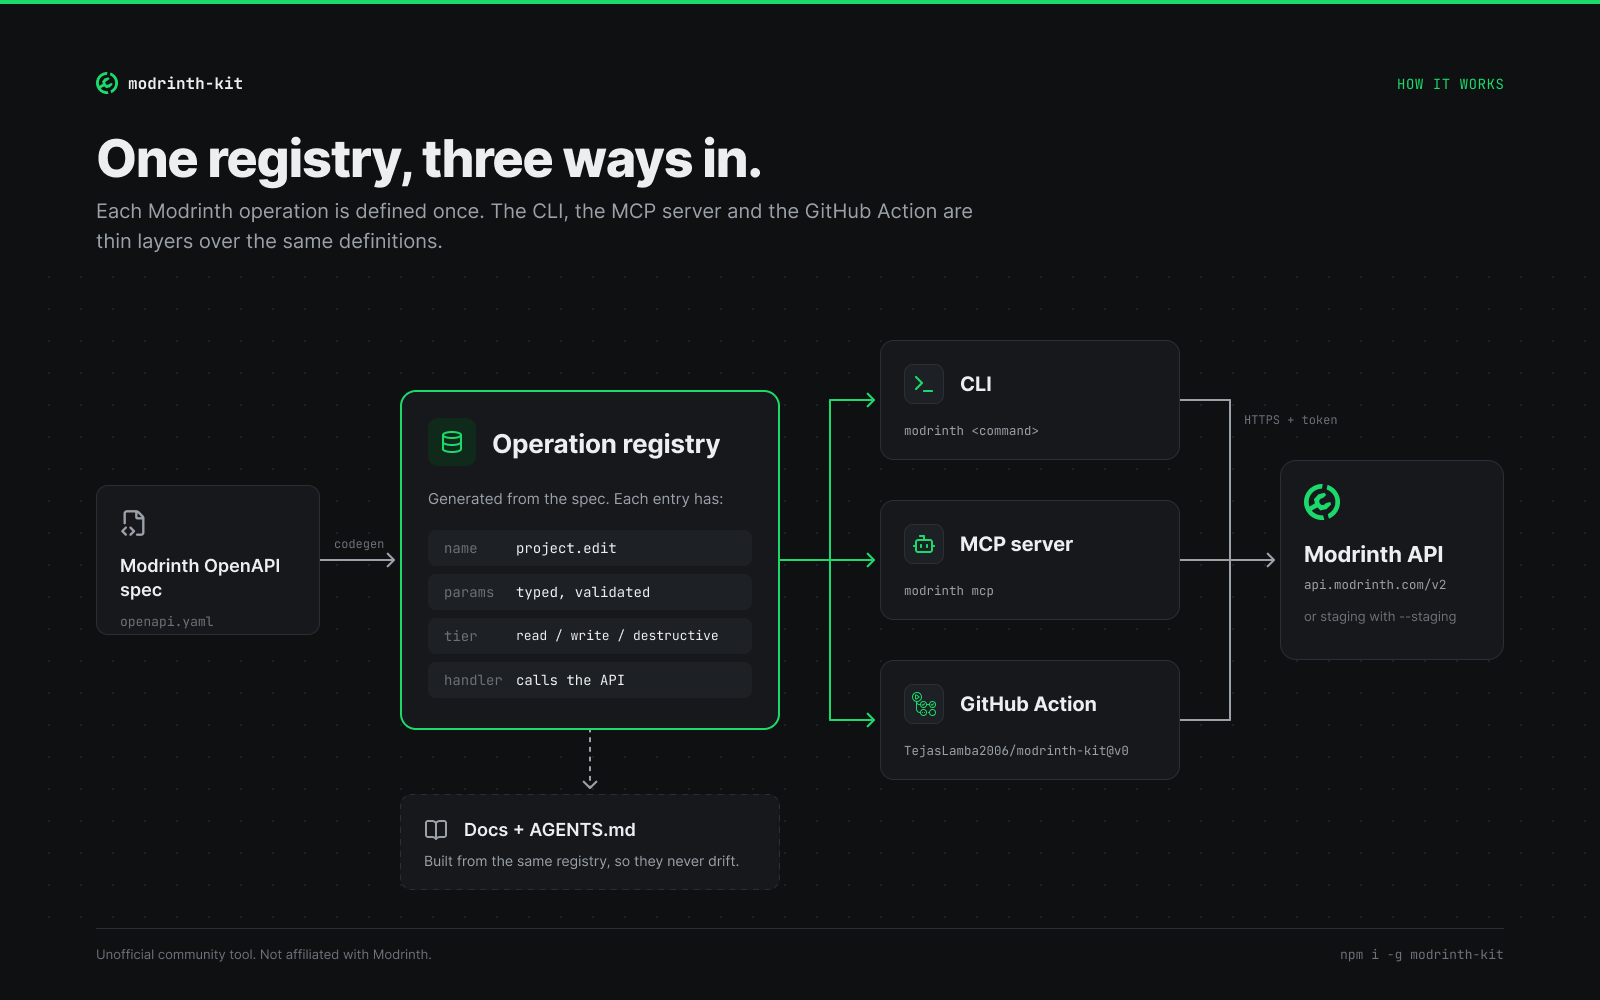
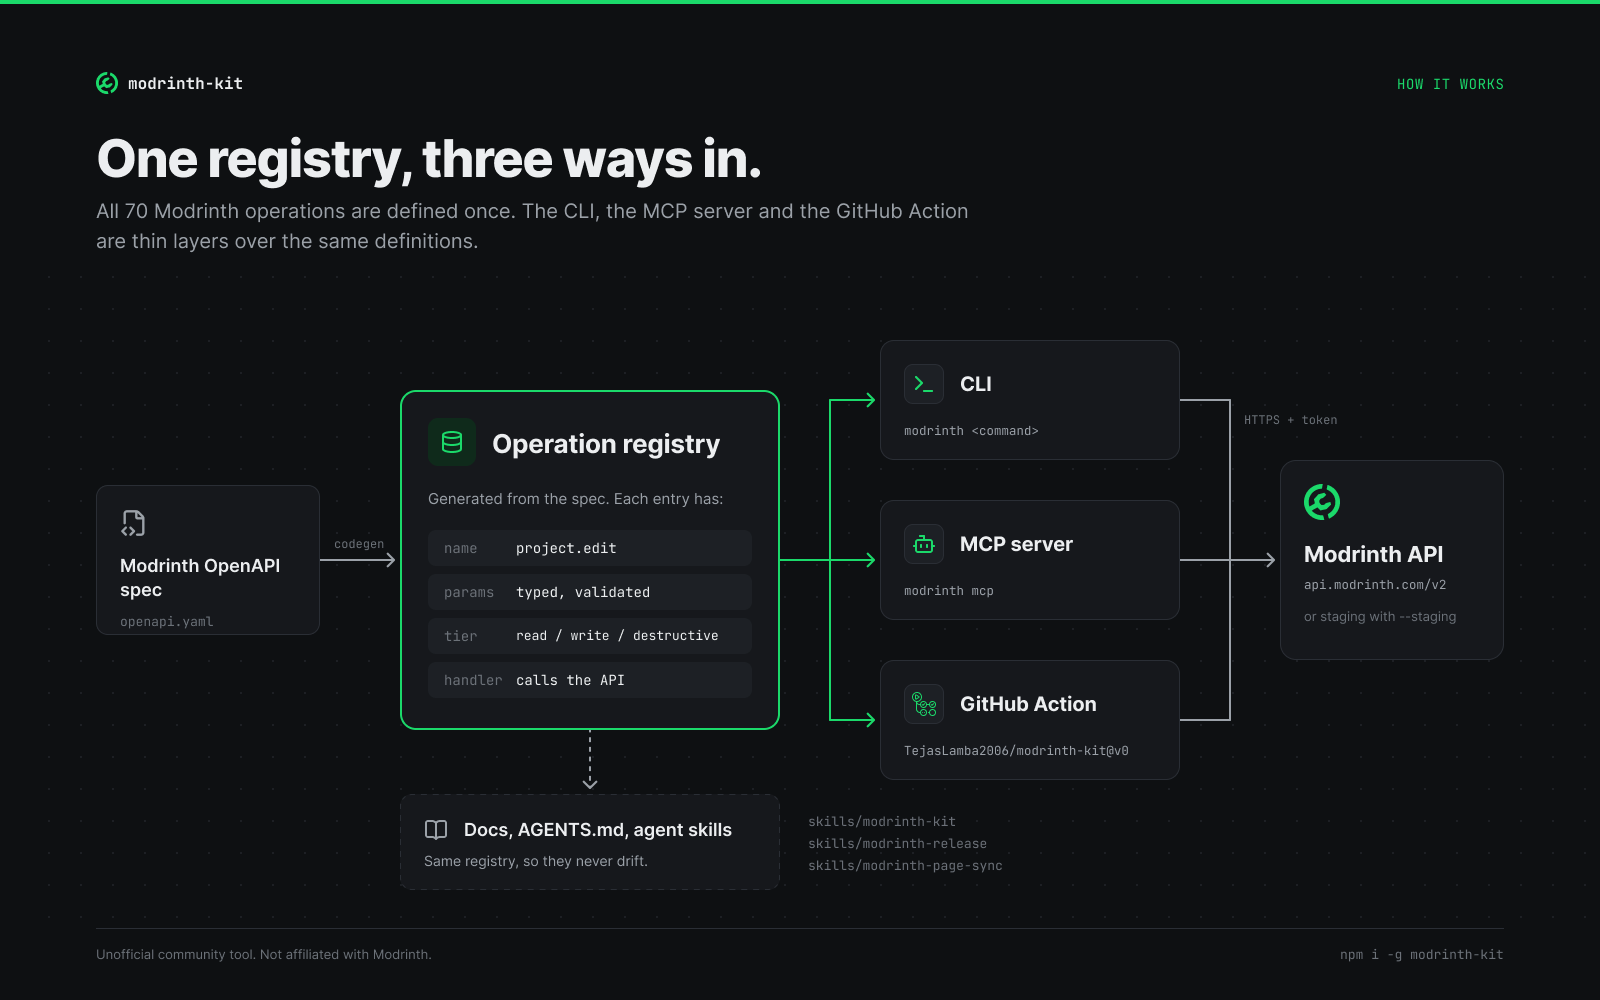
docs: v0.3 posters, agent skills image, updated Discord announcement

Changed region(s): [[0.0625, 0.186, 0.625, 0.248], [0.2812, 0.806, 0.4688, 0.868], [0.5, 0.806, 0.625, 0.868]]

diff --git a/docs/media/discord-announcement.md b/docs/media/discord-announcement.md
@@ -1,27 +1,29 @@
-Hey all, I made a thing for Modrinth project authors: **modrinth-kit**.
+Hey all, I made a thing for Modrinth project authors: **modrinth-kit** (v0.3.0).
 
-I kept doing the same clicks on the Modrinth site for every release and every page edit, and I couldn't find one tool that covered it. Minotaur only works in Gradle, the GitHub Actions only upload versions, and the CLIs I found were download-only or abandoned. So I wrote one.
+I kept doing the same clicks on the Modrinth site for every release and page edit, and couldn't find one tool that covered it. Minotaur is Gradle-only, the GitHub Actions only upload versions, and the CLIs I found were download-only or abandoned. So I wrote one.
 
-It lets you do what you'd normally do on the website (projects, versions, gallery, team, orgs, analytics, collections, replying to moderators), in three ways:
+It covers 70 operations, basically what you'd do on the website: projects, versions, gallery, team, orgs, analytics, collections, notifications, and replying to moderators. You can use it three ways:
 
-- **CLI**: `modrinth <command>`. Prints JSON, uses fixed exit codes, so it's easy to script.
+- **CLI**: `modrinth <command>`. JSON output and fixed exit codes, so it's easy to script.
 - **MCP server**: the same operations as tools for Claude Code, Claude Desktop or Cursor.
-- **CI**: keep a `modrinth.toml` in your repo. `modrinth sync` makes the project page match it (use `--dry-run` to see the diff first), and `modrinth publish 1.2.0` uploads your build with that version's CHANGELOG section. Running it twice is a no-op. There's a GitHub Action, and it runs on any CI through npx.
-- **Destructive stuff needs confirmation.** Deletes, ownership transfers and making a project public only print a preview until you pass `--yes`. You can also start the MCP server with `--read-only` so an agent can't change anything.
+- **CI**: keep a `modrinth.toml` in your repo. `modrinth sync --dry-run` shows the diff, `sync` applies it, and `modrinth publish 1.2.0` uploads your build with that version's CHANGELOG section. Safe to re-run. There's a GitHub Action, or use npx on any CI.
 
-Try it:
+New in 0.3: agent skills, so your coding agent knows how to release and sync pages without guessing.
 ```
-npm i -g modrinth-kit
-modrinth mcp --read-only
+/plugin marketplace add TejasLamba2006/modrinth-kit
+npx skills add TejasLamba2006/modrinth-kit
 ```
+The first is for Claude Code and also sets up the MCP server. The second works with Cursor, Codex, OpenCode and others.
 
-I ran every operation against Modrinth's staging API before publishing, but it's still early, so expect rough edges. Bug reports and "it doesn't do X" issues are very welcome.
+Deletes, ownership transfers, reports and making a project public only print a preview until you pass `--yes`. You can also start the MCP server with `--read-only`.
+
+Every release was run end to end against Modrinth's staging API, and a nightly test keeps doing that. It's still early, so bug reports and "it doesn't do X" issues are very welcome.
 
 GitHub: <https://github.com/TejasLamba2006/modrinth-kit>
 npm: <https://www.npmjs.com/package/modrinth-kit>
 
-MIT licensed. This is a community tool, not an official Modrinth product.
+MIT licensed. Community tool, not an official Modrinth product.
 
 ---
 
-Attach (not part of the message text): `discord-banner.png` as the main image. If the channel allows more than one, add `ci-flow.png` and `agent-safety.png`.
+Attach (not part of the message text): `discord-banner.png` as the main image. If the channel allows more, add `agent-skills.png` and `agent-safety.png`.

diff --git a/README.md b/README.md
@@ -112,6 +112,8 @@ For Claude Code: `claude mcp add modrinth -e MODRINTH_TOKEN=mrp_... -- npx -y mo
 
 ## Agent skills
 
+![Agent skills](docs/media/agent-skills.png)
+
 Skills tell coding agents what modrinth-kit can do and how to use it safely: releasing, page sync, and every operation. Pick whichever install path suits you:
 
 ```sh
